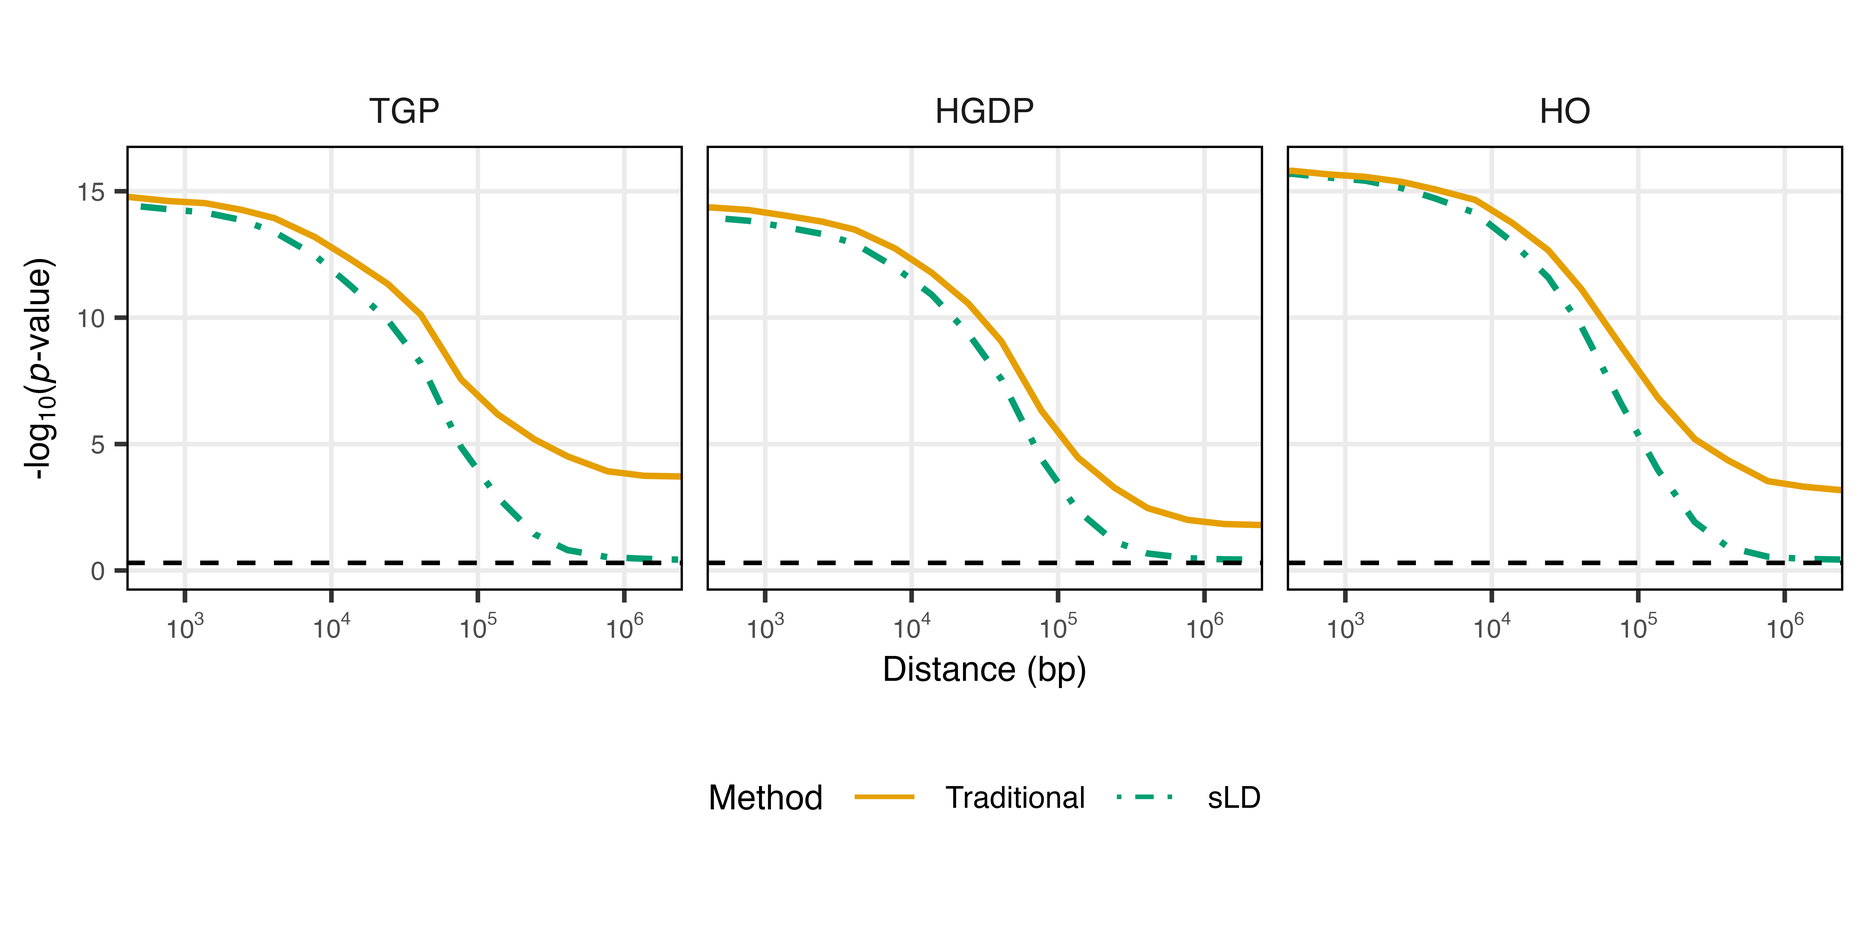
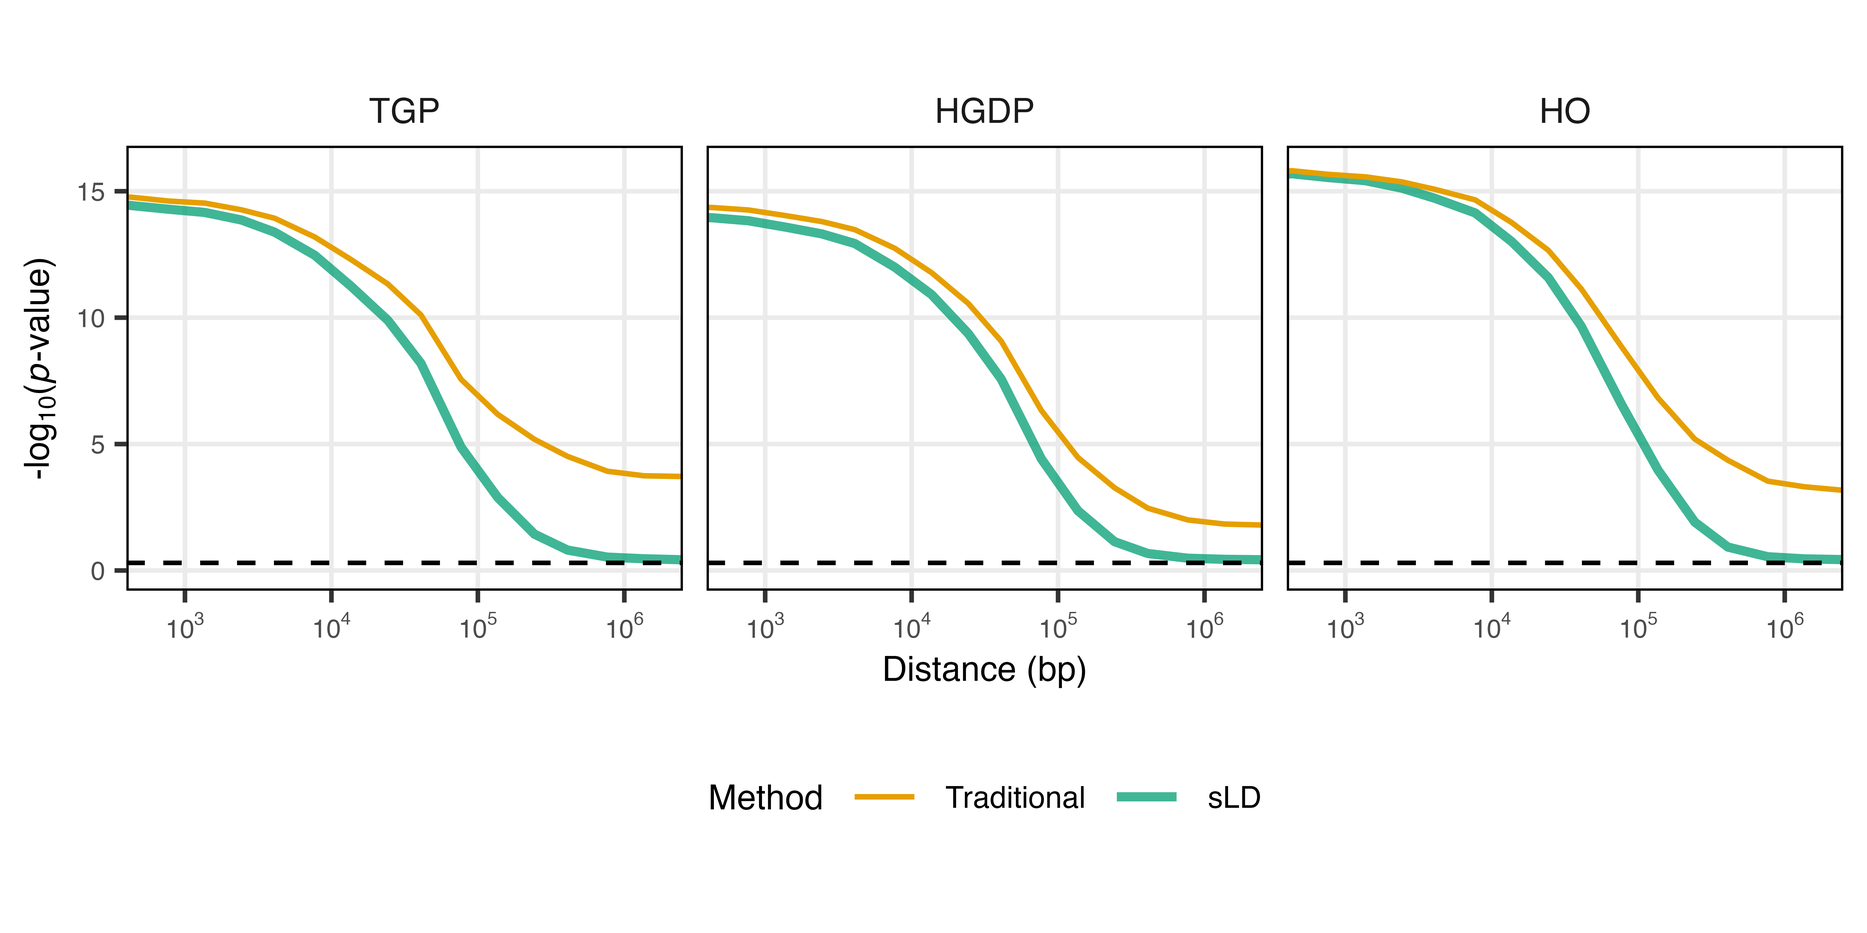
Edits to Figure 6

diff --git a/sLD_reproducible_analysis.html b/sLD_reproducible_analysis.html
@@ -831,7 +831,7 @@ window.Quarto = {
 <span id="cb21-35"><a href="#cb21-35" aria-hidden="true" tabindex="-1"></a>}</span></code></pre></div><button title="Copy to Clipboard" class="code-copy-button"><i class="bi"></i></button></div>
 </div>
 <div class="cell">
-<div class="code-copy-outer-scaffold"><div class="sourceCode cell-code" id="cb22"><pre class="sourceCode r code-with-copy"><code class="sourceCode r"><span id="cb22-1"><a href="#cb22-1" aria-hidden="true" tabindex="-1"></a>power_analysis_df <span class="ot">&lt;-</span> <span class="fu">data.frame</span>(<span class="at">index=</span><span class="fu">rep</span>(<span class="fu">seq</span>(<span class="fl">0.1</span>,<span class="fl">0.5</span>,<span class="at">by=</span><span class="fl">0.05</span>), <span class="dv">6</span>),</span>
+<div class="code-copy-outer-scaffold"><div class="sourceCode cell-code" id="cb22"><pre class="sourceCode r code-with-copy"><code class="sourceCode r"><span id="cb22-1"><a href="#cb22-1" aria-hidden="true" tabindex="-1"></a>power_analysis_df <span class="ot">&lt;-</span> <span class="fu">data.frame</span>(<span class="at">index=</span><span class="fu">rep</span>(<span class="fu">seq</span>(<span class="fl">0.1</span>, <span class="fl">0.5</span>, <span class="at">by =</span> <span class="fl">0.05</span>), <span class="dv">6</span>),</span>
 <span id="cb22-2"><a href="#cb22-2" aria-hidden="true" tabindex="-1"></a>                                <span class="at">value=</span><span class="fu">c</span>(FDR_vec_theor, FDR_vec_imp, FDR_vec_trad, </span>
 <span id="cb22-3"><a href="#cb22-3" aria-hidden="true" tabindex="-1"></a>                                       power_vec_theor, power_vec_imp, power_vec_trad),</span>
 <span id="cb22-4"><a href="#cb22-4" aria-hidden="true" tabindex="-1"></a>                                <span class="at">metric =</span> <span class="fu">rep</span>(<span class="fu">c</span>(<span class="st">"FDR"</span>, <span class="st">"FDR"</span>, <span class="st">"FDR"</span>, </span>
@@ -1479,46 +1479,45 @@ window.Quarto = {
 <span id="cb62-4"><a href="#cb62-4" aria-hidden="true" tabindex="-1"></a>             <span class="fu">rep</span>(<span class="st">"TGP"</span>, <span class="dv">27</span>), <span class="fu">rep</span>(<span class="st">"HGDP"</span>, <span class="dv">27</span>), <span class="fu">rep</span>(<span class="st">"HO"</span>, <span class="dv">27</span>))</span>
 <span id="cb62-5"><a href="#cb62-5" aria-hidden="true" tabindex="-1"></a>test_label <span class="ot">&lt;-</span> <span class="fu">c</span>(<span class="fu">rep</span>(<span class="st">"sLD"</span>,<span class="dv">81</span>), <span class="fu">rep</span>(<span class="st">"Traditional"</span>,<span class="dv">81</span>))</span>
 <span id="cb62-6"><a href="#cb62-6" aria-hidden="true" tabindex="-1"></a>combined_df <span class="ot">&lt;-</span> <span class="fu">cbind</span>(combined_df, df_label, test_label)</span>
-<span id="cb62-7"><a href="#cb62-7" aria-hidden="true" tabindex="-1"></a>combined_df<span class="sc">$</span>df_label <span class="ot">&lt;-</span> <span class="fu">factor</span>(combined_df<span class="sc">$</span>df_label, <span class="at">levels=</span><span class="fu">c</span>(<span class="st">"TGP"</span>, <span class="st">"HGDP"</span>, <span class="st">"HO"</span>))</span>
-<span id="cb62-8"><a href="#cb62-8" aria-hidden="true" tabindex="-1"></a>combined_df<span class="sc">$</span>test_label <span class="ot">&lt;-</span> <span class="fu">factor</span>(combined_df<span class="sc">$</span>test_label, <span class="at">levels=</span><span class="fu">c</span>(<span class="st">"sLD"</span>, <span class="st">"Traditional"</span>))</span>
+<span id="cb62-7"><a href="#cb62-7" aria-hidden="true" tabindex="-1"></a>combined_df<span class="sc">$</span>df_label <span class="ot">&lt;-</span> <span class="fu">factor</span>(combined_df<span class="sc">$</span>df_label, <span class="at">levels =</span> <span class="fu">c</span>(<span class="st">"TGP"</span>, <span class="st">"HGDP"</span>, <span class="st">"HO"</span>))</span>
+<span id="cb62-8"><a href="#cb62-8" aria-hidden="true" tabindex="-1"></a>combined_df<span class="sc">$</span>test_label <span class="ot">&lt;-</span> <span class="fu">factor</span>(combined_df<span class="sc">$</span>test_label, <span class="at">levels =</span> <span class="fu">c</span>(<span class="st">"sLD"</span>, <span class="st">"Traditional"</span>))</span>
 <span id="cb62-9"><a href="#cb62-9" aria-hidden="true" tabindex="-1"></a></span>
-<span id="cb62-10"><a href="#cb62-10" aria-hidden="true" tabindex="-1"></a>p <span class="ot">&lt;-</span> <span class="fu">ggplot</span>(combined_df, <span class="fu">aes</span>(<span class="at">x =</span> mean_x, <span class="at">y =</span> mean_y,</span>
-<span id="cb62-11"><a href="#cb62-11" aria-hidden="true" tabindex="-1"></a>                             <span class="at">color =</span> test_label, <span class="at">linetype =</span> test_label)) <span class="sc">+</span></span>
-<span id="cb62-12"><a href="#cb62-12" aria-hidden="true" tabindex="-1"></a>  <span class="fu">geom_line</span>(<span class="at">linewidth =</span> <span class="fl">0.7</span>) <span class="sc">+</span> <span class="fu">coord_cartesian</span>(<span class="at">xlim =</span> <span class="fu">c</span>(<span class="fl">2.6</span>,<span class="fl">6.4</span>), <span class="at">ylim=</span><span class="fu">c</span>(<span class="dv">0</span>,<span class="dv">16</span>)) <span class="sc">+</span> </span>
-<span id="cb62-13"><a href="#cb62-13" aria-hidden="true" tabindex="-1"></a>  <span class="fu">facet_wrap</span>(<span class="sc">~</span> df_label, <span class="at">nrow=</span><span class="dv">1</span>) <span class="sc">+</span></span>
-<span id="cb62-14"><a href="#cb62-14" aria-hidden="true" tabindex="-1"></a>  <span class="fu">labs</span>(</span>
-<span id="cb62-15"><a href="#cb62-15" aria-hidden="true" tabindex="-1"></a>    <span class="at">x =</span> <span class="st">"Distance (bp)"</span>,</span>
-<span id="cb62-16"><a href="#cb62-16" aria-hidden="true" tabindex="-1"></a>    <span class="at">y =</span> <span class="fu">TeX</span>(r<span class="st">"(-$log_{10}$(</span><span class="sc">\t</span><span class="st">extit{p}-value))"</span>),</span>
-<span id="cb62-17"><a href="#cb62-17" aria-hidden="true" tabindex="-1"></a>    <span class="at">color =</span> <span class="st">"Method"</span>,</span>
-<span id="cb62-18"><a href="#cb62-18" aria-hidden="true" tabindex="-1"></a>    <span class="at">linetype =</span> <span class="st">"Method"</span></span>
-<span id="cb62-19"><a href="#cb62-19" aria-hidden="true" tabindex="-1"></a>  ) <span class="sc">+</span>  </span>
-<span id="cb62-20"><a href="#cb62-20" aria-hidden="true" tabindex="-1"></a>  <span class="fu">theme_bw</span>(<span class="at">base_family =</span> <span class="st">"sans"</span>) <span class="sc">+</span> </span>
-<span id="cb62-21"><a href="#cb62-21" aria-hidden="true" tabindex="-1"></a>  <span class="fu">theme</span>(<span class="at">strip.background =</span> <span class="fu">element_blank</span>(),</span>
-<span id="cb62-22"><a href="#cb62-22" aria-hidden="true" tabindex="-1"></a>        <span class="at">strip.text =</span> <span class="fu">element_text</span>(<span class="at">face =</span> <span class="st">"plain"</span>, <span class="at">size =</span> <span class="dv">8</span>),</span>
-<span id="cb62-23"><a href="#cb62-23" aria-hidden="true" tabindex="-1"></a>        <span class="at">panel.border =</span> <span class="fu">element_rect</span>(<span class="at">color =</span> <span class="st">"black"</span>, <span class="at">fill =</span> <span class="cn">NA</span>, <span class="at">linewidth =</span> <span class="fl">0.5</span>),</span>
-<span id="cb62-24"><a href="#cb62-24" aria-hidden="true" tabindex="-1"></a>        <span class="at">panel.grid.minor =</span> <span class="fu">element_blank</span>(),</span>
-<span id="cb62-25"><a href="#cb62-25" aria-hidden="true" tabindex="-1"></a>        <span class="at">axis.text =</span> <span class="fu">element_text</span>(<span class="at">size =</span> <span class="dv">6</span>),</span>
-<span id="cb62-26"><a href="#cb62-26" aria-hidden="true" tabindex="-1"></a>        <span class="at">axis.title.x =</span> <span class="fu">element_text</span>(<span class="at">size =</span> <span class="dv">8</span>),</span>
-<span id="cb62-27"><a href="#cb62-27" aria-hidden="true" tabindex="-1"></a>        <span class="at">text =</span> <span class="fu">element_text</span>(<span class="at">size =</span> <span class="dv">8</span>),</span>
-<span id="cb62-28"><a href="#cb62-28" aria-hidden="true" tabindex="-1"></a>        <span class="at">aspect.ratio =</span> <span class="fl">0.8</span>,</span>
-<span id="cb62-29"><a href="#cb62-29" aria-hidden="true" tabindex="-1"></a>        <span class="at">legend.position =</span> <span class="st">"bottom"</span>,</span>
-<span id="cb62-30"><a href="#cb62-30" aria-hidden="true" tabindex="-1"></a>        <span class="at">legend.title =</span> <span class="fu">element_text</span>(<span class="at">size =</span> <span class="dv">8</span>),</span>
-<span id="cb62-31"><a href="#cb62-31" aria-hidden="true" tabindex="-1"></a>        <span class="at">legend.text =</span> <span class="fu">element_text</span>(<span class="at">size =</span> <span class="dv">7</span>)</span>
-<span id="cb62-32"><a href="#cb62-32" aria-hidden="true" tabindex="-1"></a>        ) <span class="sc">+</span> </span>
-<span id="cb62-33"><a href="#cb62-33" aria-hidden="true" tabindex="-1"></a>  <span class="fu">scale_x_continuous</span>(<span class="at">breaks =</span> <span class="fu">c</span>(<span class="dv">3</span>, <span class="dv">4</span>, <span class="dv">5</span>, <span class="dv">6</span>),</span>
-<span id="cb62-34"><a href="#cb62-34" aria-hidden="true" tabindex="-1"></a>                     <span class="at">labels =</span> <span class="fu">TeX</span>(<span class="fu">c</span>(<span class="st">"$10^3$"</span>, <span class="st">"$10^4$"</span>, <span class="st">"$10^5$"</span>, <span class="st">"$10^6$"</span>)),</span>
-<span id="cb62-35"><a href="#cb62-35" aria-hidden="true" tabindex="-1"></a>                     <span class="at">expand =</span> <span class="fu">c</span>(<span class="dv">0</span>, <span class="dv">0</span>)</span>
-<span id="cb62-36"><a href="#cb62-36" aria-hidden="true" tabindex="-1"></a>                     ) <span class="sc">+</span> </span>
-<span id="cb62-37"><a href="#cb62-37" aria-hidden="true" tabindex="-1"></a>  <span class="fu">scale_color_manual</span>(<span class="at">breaks =</span> <span class="fu">c</span>(<span class="st">"Traditional"</span>, <span class="st">"sLD"</span>),</span>
-<span id="cb62-38"><a href="#cb62-38" aria-hidden="true" tabindex="-1"></a>                     <span class="at">values =</span> <span class="fu">c</span>(<span class="st">"sLD"</span> <span class="ot">=</span> <span class="st">"#009E73"</span>, <span class="st">"Traditional"</span> <span class="ot">=</span> <span class="st">"#E69F00"</span>)</span>
-<span id="cb62-39"><a href="#cb62-39" aria-hidden="true" tabindex="-1"></a>                     ) <span class="sc">+</span> </span>
-<span id="cb62-40"><a href="#cb62-40" aria-hidden="true" tabindex="-1"></a>  <span class="fu">scale_linetype_manual</span>(<span class="at">breaks =</span> <span class="fu">c</span>(<span class="st">"Traditional"</span>, <span class="st">"sLD"</span>),</span>
-<span id="cb62-41"><a href="#cb62-41" aria-hidden="true" tabindex="-1"></a>                        <span class="at">values =</span> <span class="fu">c</span>(<span class="st">"sLD"</span> <span class="ot">=</span> <span class="st">"dotdash"</span>, <span class="st">"Traditional"</span> <span class="ot">=</span> <span class="st">"solid"</span>)</span>
-<span id="cb62-42"><a href="#cb62-42" aria-hidden="true" tabindex="-1"></a>                        ) <span class="sc">+</span></span>
-<span id="cb62-43"><a href="#cb62-43" aria-hidden="true" tabindex="-1"></a>  <span class="fu">guides</span>(<span class="at">linetype =</span> <span class="fu">guide_legend</span>(<span class="at">override.aes =</span> <span class="fu">list</span>(<span class="at">linewidth =</span> <span class="fl">0.5</span>))) <span class="sc">+</span> </span>
-<span id="cb62-44"><a href="#cb62-44" aria-hidden="true" tabindex="-1"></a>  <span class="fu">geom_hline</span>(<span class="at">yintercept=</span><span class="sc">-</span><span class="fu">log10</span>(<span class="fl">0.5</span>), <span class="at">linetype=</span><span class="dv">2</span>, <span class="at">col=</span><span class="st">"black"</span>)</span>
-<span id="cb62-45"><a href="#cb62-45" aria-hidden="true" tabindex="-1"></a></span>
-<span id="cb62-46"><a href="#cb62-46" aria-hidden="true" tabindex="-1"></a>p</span></code></pre></div><button title="Copy to Clipboard" class="code-copy-button"><i class="bi"></i></button></div>
+<span id="cb62-10"><a href="#cb62-10" aria-hidden="true" tabindex="-1"></a>p <span class="ot">&lt;-</span> <span class="fu">ggplot</span>(combined_df, <span class="fu">aes</span>(<span class="at">x =</span> mean_x, <span class="at">y =</span> mean_y, <span class="at">color =</span> test_label)) <span class="sc">+</span></span>
+<span id="cb62-11"><a href="#cb62-11" aria-hidden="true" tabindex="-1"></a>  <span class="fu">geom_line</span>(<span class="at">data =</span> <span class="fu">subset</span>(combined_df, test_label <span class="sc">==</span> <span class="st">"sLD"</span>),</span>
+<span id="cb62-12"><a href="#cb62-12" aria-hidden="true" tabindex="-1"></a>            <span class="fu">aes</span>(<span class="at">group =</span> test_label), <span class="at">linewidth =</span> <span class="fl">1.0</span>, <span class="at">alpha =</span> <span class="fl">0.75</span>, <span class="at">linetype =</span> <span class="st">"solid"</span>) <span class="sc">+</span></span>
+<span id="cb62-13"><a href="#cb62-13" aria-hidden="true" tabindex="-1"></a>  <span class="fu">geom_line</span>(<span class="at">data =</span> <span class="fu">subset</span>(combined_df, test_label <span class="sc">==</span> <span class="st">"Traditional"</span>),</span>
+<span id="cb62-14"><a href="#cb62-14" aria-hidden="true" tabindex="-1"></a>            <span class="fu">aes</span>(<span class="at">group =</span> test_label), <span class="at">linewidth =</span> <span class="fl">0.6</span>, <span class="at">linetype =</span> <span class="st">"solid"</span>) <span class="sc">+</span></span>
+<span id="cb62-15"><a href="#cb62-15" aria-hidden="true" tabindex="-1"></a>  <span class="fu">coord_cartesian</span>(<span class="at">xlim =</span> <span class="fu">c</span>(<span class="fl">2.6</span>, <span class="fl">6.4</span>), <span class="at">ylim =</span> <span class="fu">c</span>(<span class="dv">0</span>, <span class="dv">16</span>)) <span class="sc">+</span>  </span>
+<span id="cb62-16"><a href="#cb62-16" aria-hidden="true" tabindex="-1"></a>  <span class="fu">facet_wrap</span>(<span class="sc">~</span> df_label, <span class="at">nrow =</span> <span class="dv">1</span>) <span class="sc">+</span></span>
+<span id="cb62-17"><a href="#cb62-17" aria-hidden="true" tabindex="-1"></a>  <span class="fu">labs</span>(<span class="at">x =</span> <span class="st">"Distance (bp)"</span>,</span>
+<span id="cb62-18"><a href="#cb62-18" aria-hidden="true" tabindex="-1"></a>       <span class="at">y =</span> <span class="fu">TeX</span>(r<span class="st">"(-$log_{10}$(</span><span class="sc">\t</span><span class="st">extit{p}-value))"</span>),</span>
+<span id="cb62-19"><a href="#cb62-19" aria-hidden="true" tabindex="-1"></a>       <span class="at">color =</span> <span class="st">"Method"</span></span>
+<span id="cb62-20"><a href="#cb62-20" aria-hidden="true" tabindex="-1"></a>       ) <span class="sc">+</span>  </span>
+<span id="cb62-21"><a href="#cb62-21" aria-hidden="true" tabindex="-1"></a>  <span class="fu">theme_bw</span>(<span class="at">base_family =</span> <span class="st">"sans"</span>) <span class="sc">+</span>  </span>
+<span id="cb62-22"><a href="#cb62-22" aria-hidden="true" tabindex="-1"></a>  <span class="fu">theme</span>(<span class="at">strip.background =</span> <span class="fu">element_blank</span>(),</span>
+<span id="cb62-23"><a href="#cb62-23" aria-hidden="true" tabindex="-1"></a>        <span class="at">strip.text =</span> <span class="fu">element_text</span>(<span class="at">face =</span> <span class="st">"plain"</span>, <span class="at">size =</span> <span class="dv">8</span>),</span>
+<span id="cb62-24"><a href="#cb62-24" aria-hidden="true" tabindex="-1"></a>        <span class="at">panel.border =</span> <span class="fu">element_rect</span>(<span class="at">color =</span> <span class="st">"black"</span>, <span class="at">fill =</span> <span class="cn">NA</span>, <span class="at">linewidth =</span> <span class="fl">0.5</span>),</span>
+<span id="cb62-25"><a href="#cb62-25" aria-hidden="true" tabindex="-1"></a>        <span class="at">panel.grid.minor =</span> <span class="fu">element_blank</span>(),</span>
+<span id="cb62-26"><a href="#cb62-26" aria-hidden="true" tabindex="-1"></a>        <span class="at">axis.text =</span> <span class="fu">element_text</span>(<span class="at">size =</span> <span class="dv">6</span>),</span>
+<span id="cb62-27"><a href="#cb62-27" aria-hidden="true" tabindex="-1"></a>        <span class="at">axis.title.x =</span> <span class="fu">element_text</span>(<span class="at">size =</span> <span class="dv">8</span>),</span>
+<span id="cb62-28"><a href="#cb62-28" aria-hidden="true" tabindex="-1"></a>        <span class="at">text =</span> <span class="fu">element_text</span>(<span class="at">size =</span> <span class="dv">8</span>),</span>
+<span id="cb62-29"><a href="#cb62-29" aria-hidden="true" tabindex="-1"></a>        <span class="at">aspect.ratio =</span> <span class="fl">0.8</span>,</span>
+<span id="cb62-30"><a href="#cb62-30" aria-hidden="true" tabindex="-1"></a>        <span class="at">legend.position =</span> <span class="st">"bottom"</span>,</span>
+<span id="cb62-31"><a href="#cb62-31" aria-hidden="true" tabindex="-1"></a>        <span class="at">legend.title =</span> <span class="fu">element_text</span>(<span class="at">size =</span> <span class="dv">8</span>),</span>
+<span id="cb62-32"><a href="#cb62-32" aria-hidden="true" tabindex="-1"></a>        <span class="at">legend.text =</span> <span class="fu">element_text</span>(<span class="at">size =</span> <span class="dv">7</span>)</span>
+<span id="cb62-33"><a href="#cb62-33" aria-hidden="true" tabindex="-1"></a>        ) <span class="sc">+</span>  </span>
+<span id="cb62-34"><a href="#cb62-34" aria-hidden="true" tabindex="-1"></a>  <span class="fu">scale_x_continuous</span>(<span class="at">breaks =</span> <span class="fu">c</span>(<span class="dv">3</span>, <span class="dv">4</span>, <span class="dv">5</span>, <span class="dv">6</span>),</span>
+<span id="cb62-35"><a href="#cb62-35" aria-hidden="true" tabindex="-1"></a>                     <span class="at">labels =</span> <span class="fu">TeX</span>(<span class="fu">c</span>(<span class="st">"$10^3$"</span>, <span class="st">"$10^4$"</span>, <span class="st">"$10^5$"</span>, <span class="st">"$10^6$"</span>)),</span>
+<span id="cb62-36"><a href="#cb62-36" aria-hidden="true" tabindex="-1"></a>                     <span class="at">expand =</span> <span class="fu">c</span>(<span class="dv">0</span>, <span class="dv">0</span>)</span>
+<span id="cb62-37"><a href="#cb62-37" aria-hidden="true" tabindex="-1"></a>                     ) <span class="sc">+</span>  </span>
+<span id="cb62-38"><a href="#cb62-38" aria-hidden="true" tabindex="-1"></a>  <span class="fu">scale_color_manual</span>(<span class="at">breaks =</span> <span class="fu">c</span>(<span class="st">"Traditional"</span>, <span class="st">"sLD"</span>),</span>
+<span id="cb62-39"><a href="#cb62-39" aria-hidden="true" tabindex="-1"></a>                     <span class="at">values =</span> <span class="fu">c</span>(<span class="st">"sLD"</span> <span class="ot">=</span> <span class="st">"#009E73"</span>, <span class="st">"Traditional"</span> <span class="ot">=</span> <span class="st">"#E69F00"</span>)</span>
+<span id="cb62-40"><a href="#cb62-40" aria-hidden="true" tabindex="-1"></a>                     ) <span class="sc">+</span>  </span>
+<span id="cb62-41"><a href="#cb62-41" aria-hidden="true" tabindex="-1"></a>  <span class="fu">guides</span>(<span class="at">color =</span> <span class="fu">guide_legend</span>(<span class="at">override.aes =</span> <span class="fu">list</span>(<span class="at">linewidth =</span> <span class="fu">c</span>(<span class="fl">0.6</span>, <span class="fl">1.0</span>), </span>
+<span id="cb62-42"><a href="#cb62-42" aria-hidden="true" tabindex="-1"></a>                                                  <span class="at">alpha =</span> <span class="fu">c</span>(<span class="fl">1.0</span>, <span class="fl">0.75</span>)))) <span class="sc">+</span>  </span>
+<span id="cb62-43"><a href="#cb62-43" aria-hidden="true" tabindex="-1"></a>  <span class="fu">geom_hline</span>(<span class="at">yintercept =</span> <span class="sc">-</span><span class="fu">log10</span>(<span class="fl">0.5</span>), <span class="at">linetype =</span> <span class="dv">2</span>, <span class="at">col =</span> <span class="st">"black"</span>)</span>
+<span id="cb62-44"><a href="#cb62-44" aria-hidden="true" tabindex="-1"></a></span>
+<span id="cb62-45"><a href="#cb62-45" aria-hidden="true" tabindex="-1"></a>p</span></code></pre></div><button title="Copy to Clipboard" class="code-copy-button"><i class="bi"></i></button></div>
 <div class="cell-output-display">
 <div>
 <figure class="figure">
@@ -1547,8 +1546,8 @@ window.Quarto = {
 <span id="cb64-8"><a href="#cb64-8" aria-hidden="true" tabindex="-1"></a>hla_rsid_thinned <span class="ot">&lt;-</span> hla_mapping<span class="sc">$</span>refsnp_id[<span class="fu">seq</span>(<span class="dv">1</span>, <span class="fu">nrow</span>(hla_mapping), <span class="at">by =</span> thin_factor)]</span>
 <span id="cb64-9"><a href="#cb64-9" aria-hidden="true" tabindex="-1"></a>pairs_matrix <span class="ot">&lt;-</span> <span class="fu">combn</span>(hla_rsid_thinned, <span class="dv">2</span>)</span>
 <span id="cb64-10"><a href="#cb64-10" aria-hidden="true" tabindex="-1"></a>TGP_HLA_ids <span class="ot">&lt;-</span> <span class="fu">match_rsid_index</span>(pairs_matrix, rsid_TGP)</span>
-<span id="cb64-11"><a href="#cb64-11" aria-hidden="true" tabindex="-1"></a><span class="fu">saveRDS</span>(TGP_HLA_ids, <span class="at">file=</span><span class="st">"./rdata/TGP_rdata/HLA_TGP_indices.rds"</span>)</span>
-<span id="cb64-12"><a href="#cb64-12" aria-hidden="true" tabindex="-1"></a><span class="fu">saveRDS</span>(pairs_matrix, <span class="at">file=</span><span class="st">"./rdata/TGP_rdata/HLA_TGP_coordinates.rds"</span>)</span></code></pre></div><button title="Copy to Clipboard" class="code-copy-button"><i class="bi"></i></button></div>
+<span id="cb64-11"><a href="#cb64-11" aria-hidden="true" tabindex="-1"></a><span class="fu">saveRDS</span>(TGP_HLA_ids, <span class="at">file =</span> <span class="st">"./rdata/TGP_rdata/HLA_TGP_indices.rds"</span>)</span>
+<span id="cb64-12"><a href="#cb64-12" aria-hidden="true" tabindex="-1"></a><span class="fu">saveRDS</span>(pairs_matrix, <span class="at">file =</span> <span class="st">"./rdata/TGP_rdata/HLA_TGP_coordinates.rds"</span>)</span></code></pre></div><button title="Copy to Clipboard" class="code-copy-button"><i class="bi"></i></button></div>
 </div>
 </section>
 <section id="code-for-plotting-5" class="level3">
